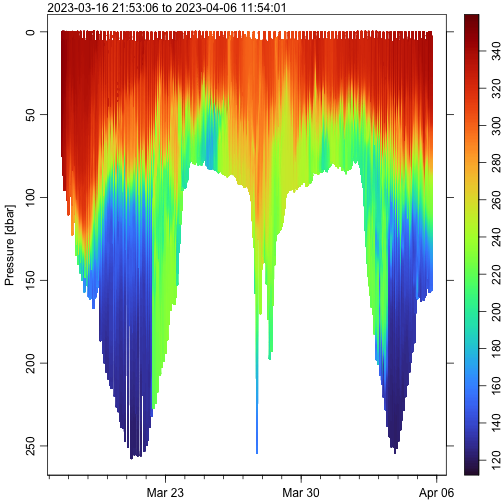
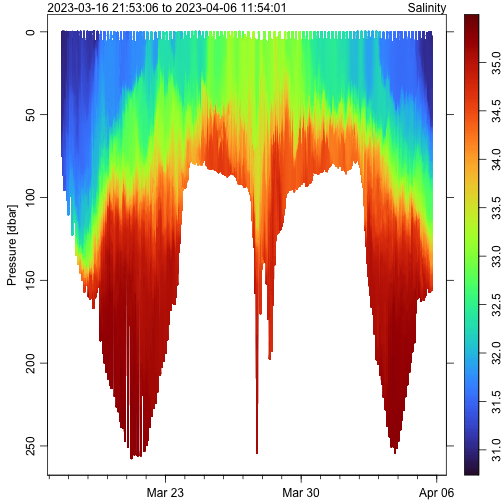
improve caption for slocum fig 1

diff --git a/docs/articles/slocum_glider.html b/docs/articles/slocum_glider.html
@@ -184,32 +184,34 @@ that so many items hold NA values, e.g.</p>
 <p>However, it seems that all the hydrographic variables are finite or
 NA together, since</p>
 <div class="sourceCode" id="cb9"><pre class="downlit sourceCode r">
-<code class="sourceCode R"><span><span class="fu"><a href="https://rdrr.io/r/base/identical.html" class="external-link">identical</a></span><span class="op">(</span><span class="fu"><a href="https://rdrr.io/r/base/NA.html" class="external-link">is.na</a></span><span class="op">(</span><span class="va">g</span><span class="op">[[</span><span class="st">"O2"</span><span class="op">]</span><span class="op">]</span><span class="op">)</span>, <span class="fu"><a href="https://rdrr.io/r/base/NA.html" class="external-link">is.na</a></span><span class="op">(</span><span class="va">g</span><span class="op">[[</span><span class="st">"pressure"</span><span class="op">]</span><span class="op">]</span><span class="op">)</span><span class="op">)</span></span>
-<span><span class="fu"><a href="https://rdrr.io/r/base/identical.html" class="external-link">identical</a></span><span class="op">(</span><span class="fu"><a href="https://rdrr.io/r/base/NA.html" class="external-link">is.na</a></span><span class="op">(</span><span class="va">g</span><span class="op">[[</span><span class="st">"O2"</span><span class="op">]</span><span class="op">]</span><span class="op">)</span>, <span class="fu"><a href="https://rdrr.io/r/base/NA.html" class="external-link">is.na</a></span><span class="op">(</span><span class="va">g</span><span class="op">[[</span><span class="st">"time"</span><span class="op">]</span><span class="op">]</span><span class="op">)</span><span class="op">)</span></span></code></pre></div>
-<p>so we can construct a time-depth plot colour-coded for oxygen
+<code class="sourceCode R"><span><span class="fu"><a href="https://rdrr.io/r/base/identical.html" class="external-link">identical</a></span><span class="op">(</span><span class="fu"><a href="https://rdrr.io/r/base/NA.html" class="external-link">is.na</a></span><span class="op">(</span><span class="va">g</span><span class="op">[[</span><span class="st">"salinity"</span><span class="op">]</span><span class="op">]</span><span class="op">)</span>, <span class="fu"><a href="https://rdrr.io/r/base/NA.html" class="external-link">is.na</a></span><span class="op">(</span><span class="va">g</span><span class="op">[[</span><span class="st">"pressure"</span><span class="op">]</span><span class="op">]</span><span class="op">)</span><span class="op">)</span></span>
+<span><span class="fu"><a href="https://rdrr.io/r/base/identical.html" class="external-link">identical</a></span><span class="op">(</span><span class="fu"><a href="https://rdrr.io/r/base/NA.html" class="external-link">is.na</a></span><span class="op">(</span><span class="va">g</span><span class="op">[[</span><span class="st">"pressure"</span><span class="op">]</span><span class="op">]</span><span class="op">)</span>, <span class="fu"><a href="https://rdrr.io/r/base/NA.html" class="external-link">is.na</a></span><span class="op">(</span><span class="va">g</span><span class="op">[[</span><span class="st">"time"</span><span class="op">]</span><span class="op">]</span><span class="op">)</span><span class="op">)</span></span></code></pre></div>
+<p>so we can construct a time-depth plot colour-coded for salinity
 with</p>
 <div class="sourceCode" id="cb10"><pre class="downlit sourceCode r">
-<code class="sourceCode R"><span><span class="va">O2</span> <span class="op">&lt;-</span> <span class="va">g</span><span class="op">[[</span><span class="st">"O2"</span><span class="op">]</span><span class="op">]</span></span>
+<code class="sourceCode R"><span><span class="va">S</span> <span class="op">&lt;-</span> <span class="va">g</span><span class="op">[[</span><span class="st">"salinity"</span><span class="op">]</span><span class="op">]</span></span>
 <span><span class="va">t</span> <span class="op">&lt;-</span> <span class="va">g</span><span class="op">[[</span><span class="st">"time"</span><span class="op">]</span><span class="op">]</span></span>
 <span><span class="va">p</span> <span class="op">&lt;-</span> <span class="va">g</span><span class="op">[[</span><span class="st">"pressure"</span><span class="op">]</span><span class="op">]</span></span>
 <span><span class="co"># Construct Figure 2</span></span>
 <span><span class="fu"><a href="https://rdrr.io/r/graphics/par.html" class="external-link">par</a></span><span class="op">(</span>mar<span class="op">=</span><span class="fu"><a href="https://rdrr.io/r/base/c.html" class="external-link">c</a></span><span class="op">(</span><span class="fl">2</span>, <span class="fl">3.3</span>, <span class="fl">1</span>, <span class="fl">1</span><span class="op">)</span><span class="op">)</span></span>
-<span><span class="va">cm</span> <span class="op">&lt;-</span> <span class="fu"><a href="https://dankelley.github.io/oce/reference/colormap.html" class="external-link">colormap</a></span><span class="op">(</span><span class="va">O2</span>, col<span class="op">=</span><span class="va">oceColorsTurbo</span><span class="op">)</span></span>
+<span><span class="va">cm</span> <span class="op">&lt;-</span> <span class="fu"><a href="https://dankelley.github.io/oce/reference/colormap.html" class="external-link">colormap</a></span><span class="op">(</span><span class="va">S</span>, col<span class="op">=</span><span class="va">oceColorsTurbo</span><span class="op">)</span></span>
 <span><span class="fu"><a href="https://dankelley.github.io/oce/reference/drawPalette.html" class="external-link">drawPalette</a></span><span class="op">(</span>colormap<span class="op">=</span><span class="va">cm</span><span class="op">)</span></span>
-<span><span class="fu"><a href="https://dankelley.github.io/oce/reference/oce.plot.ts.html" class="external-link">oce.plot.ts</a></span><span class="op">(</span><span class="va">time</span>, <span class="va">pressure</span>, ylim<span class="op">=</span><span class="fu"><a href="https://rdrr.io/r/base/rev.html" class="external-link">rev</a></span><span class="op">(</span><span class="fu"><a href="https://rdrr.io/r/base/range.html" class="external-link">range</a></span><span class="op">(</span><span class="va">pressure</span>, na.rm<span class="op">=</span><span class="cn">TRUE</span><span class="op">)</span><span class="op">)</span>,</span>
-<span>    ylab<span class="op">=</span><span class="fu"><a href="https://dankelley.github.io/oce/reference/resizableLabel.html" class="external-link">resizableLabel</a></span><span class="op">(</span><span class="st">"pressure"</span><span class="op">)</span>,</span>
-<span>    col<span class="op">=</span><span class="va">cm</span><span class="op">$</span><span class="va">zcol</span>, type<span class="op">=</span><span class="st">"p"</span>, pch<span class="op">=</span><span class="fl">20</span>, cex<span class="op">=</span><span class="fl">0.3</span>, mar<span class="op">=</span><span class="fu"><a href="https://rdrr.io/r/base/c.html" class="external-link">c</a></span><span class="op">(</span><span class="fl">2</span>, <span class="fl">3.3</span>, <span class="fl">1</span>, <span class="fl">4</span><span class="op">)</span><span class="op">)</span></span></code></pre></div>
+<span><span class="fu"><a href="https://dankelley.github.io/oce/reference/oce.plot.ts.html" class="external-link">oce.plot.ts</a></span><span class="op">(</span><span class="va">t</span>, <span class="va">p</span>, ylim<span class="op">=</span><span class="fu"><a href="https://rdrr.io/r/base/rev.html" class="external-link">rev</a></span><span class="op">(</span><span class="fu"><a href="https://rdrr.io/r/base/range.html" class="external-link">range</a></span><span class="op">(</span><span class="va">p</span>, na.rm<span class="op">=</span><span class="cn">TRUE</span><span class="op">)</span><span class="op">)</span>,</span>
+<span>    ylab<span class="op">=</span><span class="st">"Pressure [dbar]"</span>,</span>
+<span>    col<span class="op">=</span><span class="va">cm</span><span class="op">$</span><span class="va">zcol</span>, type<span class="op">=</span><span class="st">"p"</span>, pch<span class="op">=</span><span class="fl">20</span>, cex<span class="op">=</span><span class="fl">0.3</span>, mar<span class="op">=</span><span class="fu"><a href="https://rdrr.io/r/base/c.html" class="external-link">c</a></span><span class="op">(</span><span class="fl">2</span>, <span class="fl">3.3</span>, <span class="fl">1</span>, <span class="fl">4</span><span class="op">)</span><span class="op">)</span></span>
+<span><span class="fu"><a href="https://rdrr.io/r/graphics/mtext.html" class="external-link">mtext</a></span><span class="op">(</span><span class="st">"Salinity"</span>, adj<span class="op">=</span><span class="fl">1</span><span class="op">)</span></span></code></pre></div>
 </div>
 <div class="section level2">
 <h2 id="figures">Figures<a class="anchor" aria-label="anchor" href="#figures"></a>
 </h2>
 <div class="float">
-<img src="slocum_map.png" alt="Figure 1. Glider surfaced locations (red dots) with 500m depth contour (black line)"><div class="figcaption">Figure 1. Glider surfaced locations (red dots)
-with 500m depth contour (black line)</div>
+<img src="slocum_map.png" alt="Figure 1. Glider surfaced locations (red dots) with 500m depth contour (black line). The initial and final locations are at the northwest end of the dot cloud."><div class="figcaption">Figure 1. Glider surfaced locations (red dots)
+with 500m depth contour (black line). The initial and final locations
+are at the northwest end of the dot cloud.</div>
 </div>
 <div class="float">
-<img src="slocum_tz.png" alt="Figure 2. Depth dependence of O_2 as sampled by the glider whose path southward and then northward is illustrated in Figure 1."><div class="figcaption">Figure 2. Depth dependence of O<span class="math inline">\(_2\)</span> as sampled by the glider whose path
-southward and then northward is illustrated in Figure 1.</div>
+<img src="slocum_tz.png" alt="Figure 2. Dependence of salinity with depth, as sampled along the path shown in Figure 1."><div class="figcaption">Figure 2. Dependence of salinity with depth, as
+sampled along the path shown in Figure 1.</div>
 </div>
 </div>
   </div>
